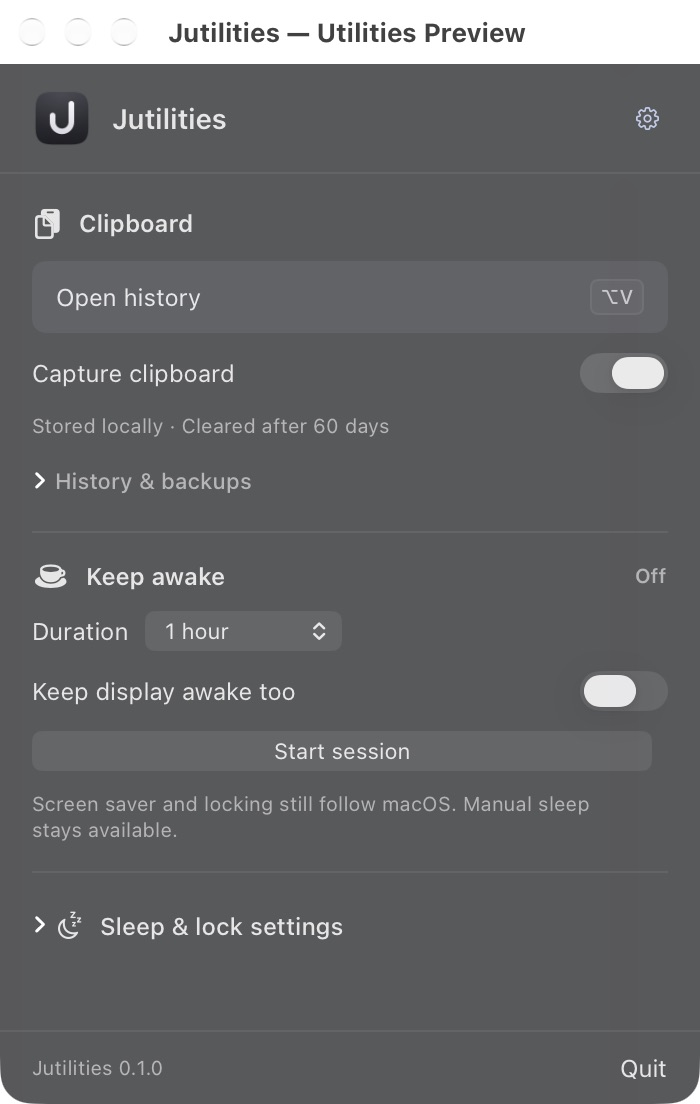
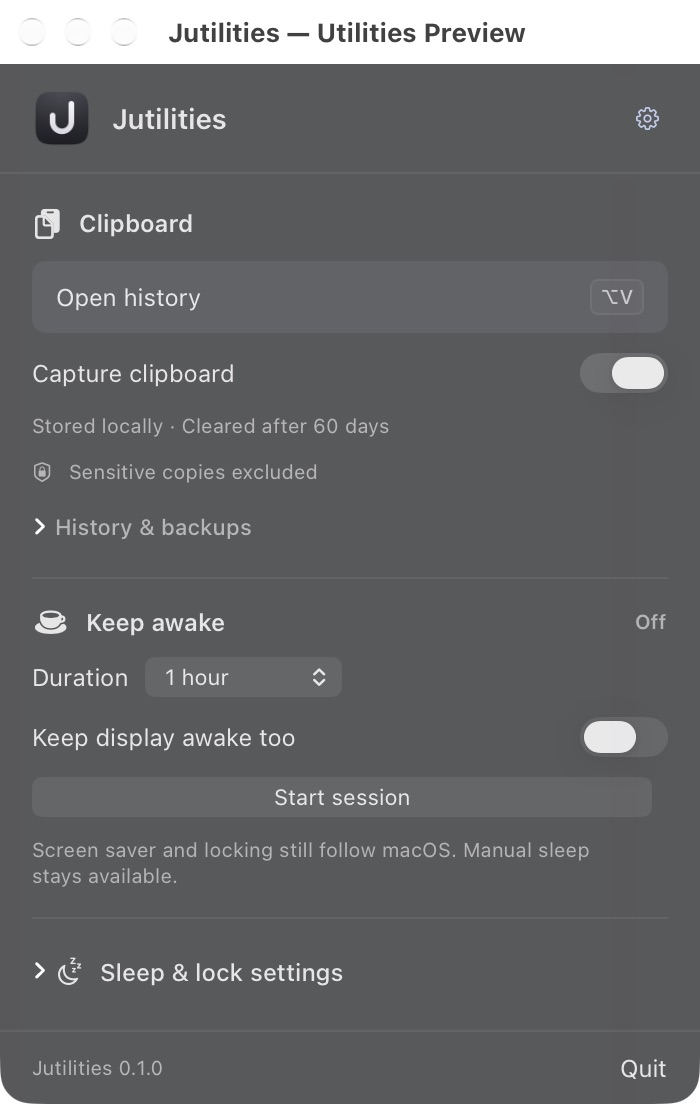
Strengthen password exclusions before clipboard capture

diff --git a/Tests/JutilitiesAppTests/PasteboardMonitorTests.swift b/Tests/JutilitiesAppTests/PasteboardMonitorTests.swift
@@ -7,7 +7,9 @@ final class PasteboardMonitorTests: XCTestCase {
     func testCapturesNewTextFromIsolatedPasteboardOnce() async throws {
         let board = NSPasteboard(name: NSPasteboard.Name("JutilitiesTests-\(UUID().uuidString)"))
         defer { board.releaseGlobally() }
-        let monitor = PasteboardMonitor(pasteboard: board, frontmostApplication: { nil })
+        let monitor = PasteboardMonitor(pasteboard: board, frontmostApplication: {
+            ClipboardSourceApplication(name: "Fixture editor", bundleIdentifier: "com.example.fixture-editor")
+        })
         var captures: [ClipboardCapture] = []
         monitor.onCapture = { captures.append($0) }
 
@@ -23,10 +25,233 @@ final class PasteboardMonitorTests: XCTestCase {
         XCTAssertEqual(captures.count, 1)
         XCTAssertEqual(capture.kind, .text)
         XCTAssertEqual(capture.text, "Ordinary test content")
+        XCTAssertEqual(capture.sourceApp, "Fixture editor")
+        XCTAssertEqual(capture.sourceBundleID, "com.example.fixture-editor")
         XCTAssertEqual(capture.representations, [
             ClipboardRepresentation(type: NSPasteboard.PasteboardType.string.rawValue,
                                     data: Data("Ordinary test content".utf8))
         ])
+    }
+
+    @MainActor
+    func testExcludesEverySensitivePasteboardMarker() async throws {
+        let board = NSPasteboard(name: NSPasteboard.Name("JutilitiesTests-\(UUID().uuidString)"))
+        defer { board.releaseGlobally() }
+        let monitor = PasteboardMonitor(pasteboard: board, frontmostApplication: { nil })
+        var captures: [ClipboardCapture] = []
+        monitor.onCapture = { captures.append($0) }
+        let markers = [
+            "org.nspasteboard.ConcealedType", "org.nspasteboard.TransientType",
+            "org.nspasteboard.AutoGeneratedType", "com.agilebits.onepassword", "net.antelle.keeweb"
+        ]
+
+        for marker in markers {
+            let item = NSPasteboardItem()
+            XCTAssertTrue(item.setString("Synthetic sensitive fixture", forType: .string))
+            XCTAssertTrue(item.setData(Data(), forType: NSPasteboard.PasteboardType(marker)))
+            board.clearContents()
+            XCTAssertTrue(board.writeObjects([item]))
+
+            monitor.poll()
+            monitor.poll()
+
+            XCTAssertTrue(captures.isEmpty, "The \(marker) marker must exclude the entire copy.")
+        }
+    }
+
+    @MainActor
+    func testResumeDoesNotCaptureAnUnpolledCopyMadeWhilePaused() async throws {
+        let board = NSPasteboard(name: NSPasteboard.Name("JutilitiesTests-\(UUID().uuidString)"))
+        defer { board.releaseGlobally() }
+        let monitor = PasteboardMonitor(pasteboard: board, frontmostApplication: { nil })
+        var captures: [ClipboardCapture] = []
+        monitor.onCapture = { captures.append($0) }
+
+        monitor.isPaused = true
+        board.clearContents()
+        XCTAssertTrue(board.setString("Synthetic unmarked secret fixture", forType: .string))
+        // Resume before the timer polls: paused copies must not be replayed later.
+        monitor.isPaused = false
+        monitor.poll()
+        XCTAssertTrue(captures.isEmpty)
+
+        board.clearContents()
+        XCTAssertTrue(board.setString("Ordinary copy after resuming", forType: .string))
+        monitor.poll()
+
+        XCTAssertEqual(captures.count, 1)
+        XCTAssertEqual(captures.first?.text, "Ordinary copy after resuming")
+    }
+
+    @MainActor
+    func testExcludesConcealedMarkerOnLaterPasteboardItem() async throws {
+        let board = NSPasteboard(name: NSPasteboard.Name("JutilitiesTests-\(UUID().uuidString)"))
+        defer { board.releaseGlobally() }
+        let monitor = PasteboardMonitor(pasteboard: board, frontmostApplication: { nil })
+        var captures: [ClipboardCapture] = []
+        monitor.onCapture = { captures.append($0) }
+        let first = NSPasteboardItem()
+        XCTAssertTrue(first.setString("Ordinary first item", forType: .string))
+        let concealed = NSPasteboardItem()
+        XCTAssertTrue(concealed.setString("Synthetic sensitive second item", forType: .string))
+        XCTAssertTrue(concealed.setData(Data(), forType: NSPasteboard.PasteboardType("org.nspasteboard.ConcealedType")))
+        board.clearContents()
+        XCTAssertTrue(board.writeObjects([first, concealed]))
+
+        monitor.poll()
+
+        XCTAssertTrue(captures.isEmpty, "A marker on any item must exclude the entire copy.")
+    }
+
+    @MainActor
+    func testExcludesPasswordApplicationsInForeground() async throws {
+        let board = NSPasteboard(name: NSPasteboard.Name("JutilitiesTests-\(UUID().uuidString)"))
+        defer { board.releaseGlobally() }
+        let applications = [
+            "com.1password.1password", "com.agilebits.onepassword7", "com.apple.Passwords",
+            "com.apple.keychainaccess", "com.bitwarden.desktop", "com.apple.SecurityAgent"
+        ]
+        var applicationID = applications[0]
+        let monitor = PasteboardMonitor(pasteboard: board, frontmostApplication: {
+            ClipboardSourceApplication(name: "Synthetic password app", bundleIdentifier: applicationID)
+        })
+        var captures: [ClipboardCapture] = []
+        monitor.onCapture = { captures.append($0) }
+
+        for identifier in applications {
+            applicationID = identifier
+            board.clearContents()
+            XCTAssertTrue(board.setString("Synthetic password fixture", forType: .string))
+
+            monitor.poll()
+
+            XCTAssertTrue(captures.isEmpty, "Copies from \(identifier) must not enter history.")
+        }
+    }
+
+    @MainActor
+    func testExcludesPasswordApplicationSourceWhileOrdinaryAppIsFrontmost() async throws {
+        let board = NSPasteboard(name: NSPasteboard.Name("JutilitiesTests-\(UUID().uuidString)"))
+        defer { board.releaseGlobally() }
+        let monitor = PasteboardMonitor(pasteboard: board, frontmostApplication: {
+            ClipboardSourceApplication(name: "Fixture editor", bundleIdentifier: "com.example.fixture-editor")
+        })
+        var captures: [ClipboardCapture] = []
+        monitor.onCapture = { captures.append($0) }
+        let item = NSPasteboardItem()
+        XCTAssertTrue(item.setString("Synthetic sensitive fixture", forType: .string))
+        XCTAssertTrue(item.setString("com.1password.1password", forType: NSPasteboard.PasteboardType("org.nspasteboard.source")))
+        board.clearContents()
+        XCTAssertTrue(board.writeObjects([item]))
+
+        monitor.poll()
+
+        XCTAssertTrue(captures.isEmpty, "Source metadata must exclude a password-manager copy after focus changes.")
+    }
+
+    @MainActor
+    func testExcludesPasswordApplicationSourceOnLaterPasteboardItem() async throws {
+        let board = NSPasteboard(name: NSPasteboard.Name("JutilitiesTests-\(UUID().uuidString)"))
+        defer { board.releaseGlobally() }
+        let monitor = PasteboardMonitor(pasteboard: board, frontmostApplication: {
+            ClipboardSourceApplication(name: "Fixture editor", bundleIdentifier: "com.example.fixture-editor")
+        })
+        var captures: [ClipboardCapture] = []
+        monitor.onCapture = { captures.append($0) }
+        let first = NSPasteboardItem()
+        XCTAssertTrue(first.setString("Ordinary first item", forType: .string))
+        let source = NSPasteboardItem()
+        XCTAssertTrue(source.setString("com.bitwarden.desktop", forType: NSPasteboard.PasteboardType("org.nspasteboard.source")))
+        board.clearContents()
+        XCTAssertTrue(board.writeObjects([first, source]))
+
+        monitor.poll()
+
+        XCTAssertTrue(captures.isEmpty, "Source metadata on a later item must exclude the entire copy.")
+    }
+
+    @MainActor
+    func testCapturesOrdinarySourceMetadataAndImage() async throws {
+        let board = NSPasteboard(name: NSPasteboard.Name("JutilitiesTests-\(UUID().uuidString)"))
+        defer { board.releaseGlobally() }
+        let monitor = PasteboardMonitor(pasteboard: board, frontmostApplication: {
+            ClipboardSourceApplication(name: "Fixture image app", bundleIdentifier: "com.example.fixture-image")
+        })
+        var captures: [ClipboardCapture] = []
+        monitor.onCapture = { captures.append($0) }
+        let bitmap = try XCTUnwrap(NSBitmapImageRep(bitmapDataPlanes: nil, pixelsWide: 2, pixelsHigh: 2,
+                                                  bitsPerSample: 8, samplesPerPixel: 4, hasAlpha: true,
+                                                  isPlanar: false, colorSpaceName: .deviceRGB,
+                                                  bytesPerRow: 0, bitsPerPixel: 0))
+        for x in 0..<2 {
+            for y in 0..<2 {
+                // Opaque black/white remains stable when macOS synthesizes TIFF
+                // using a different color profile than the original PNG.
+                let level = CGFloat((x + y) % 2)
+                bitmap.setColor(NSColor(deviceRed: level, green: level, blue: level, alpha: 1), atX: x, y: y)
+            }
+        }
+        let image = try XCTUnwrap(bitmap.representation(using: .png, properties: [:]))
+        let item = NSPasteboardItem()
+        XCTAssertTrue(item.setData(image, forType: .png))
+        XCTAssertTrue(item.setString("com.example.fixture-image", forType: NSPasteboard.PasteboardType("org.nspasteboard.source")))
+        board.clearContents()
+        XCTAssertTrue(board.writeObjects([item]))
+
+        monitor.poll()
+        monitor.poll()
+
+        let capture = try XCTUnwrap(captures.first)
+        XCTAssertEqual(captures.count, 1)
+        XCTAssertEqual(capture.kind, .image)
+        XCTAssertEqual(capture.imageWidth, 2)
+        XCTAssertEqual(capture.imageHeight, 2)
+        XCTAssertNotNil(capture.thumbnail)
+        XCTAssertEqual(capture.representations.first { $0.type == NSPasteboard.PasteboardType.png.rawValue }?.data,
+                       image)
+        for representation in capture.representations {
+            XCTAssertTrue([NSPasteboard.PasteboardType.png.rawValue, NSPasteboard.PasteboardType.tiff.rawValue]
+                .contains(representation.type), "An ordinary image copy must contain only image formats.")
+            if representation.type == NSPasteboard.PasteboardType.tiff.rawValue {
+                let nativeImage = try XCTUnwrap(NSBitmapImageRep(data: representation.data))
+                XCTAssertEqual(nativeImage.pixelsWide, 2)
+                XCTAssertEqual(nativeImage.pixelsHigh, 2)
+                for x in 0..<2 {
+                    for y in 0..<2 {
+                        let expected = try XCTUnwrap(bitmap.colorAt(x: x, y: y)?.usingColorSpace(.deviceRGB))
+                        let actual = try XCTUnwrap(nativeImage.colorAt(x: x, y: y)?.usingColorSpace(.deviceRGB))
+                        XCTAssertEqual(actual.redComponent, expected.redComponent, accuracy: 1 / 255)
+                        XCTAssertEqual(actual.greenComponent, expected.greenComponent, accuracy: 1 / 255)
+                        XCTAssertEqual(actual.blueComponent, expected.blueComponent, accuracy: 1 / 255)
+                        XCTAssertEqual(actual.alphaComponent, expected.alphaComponent, accuracy: 1 / 255)
+                    }
+                }
+            }
+        }
+    }
+
+    @MainActor
+    func testDiscardsCaptureWhenPromisedDataAddsConcealedMarkerWithoutOwnershipChange() async throws {
+        let board = NSPasteboard(name: NSPasteboard.Name("JutilitiesTests-\(UUID().uuidString)"))
+        defer { board.releaseGlobally() }
+        let monitor = PasteboardMonitor(pasteboard: board, frontmostApplication: { nil })
+        var captures: [ClipboardCapture] = []
+        monitor.onCapture = { captures.append($0) }
+        let provider = LateConcealedMarkerProvider(board: board)
+        let item = NSPasteboardItem()
+        XCTAssertTrue(item.setString("Ordinary original fixture", forType: .string))
+        XCTAssertTrue(item.setDataProvider(provider, forTypes: [.rtf]))
+        board.clearContents()
+        XCTAssertTrue(board.writeObjects([item]))
+        let generation = board.changeCount
+
+        monitor.poll()
+
+        XCTAssertTrue(provider.wasInvoked, "The marker must arrive during a promised-data read.")
+        XCTAssertTrue(provider.markerAddedSuccessfully)
+        XCTAssertEqual(board.changeCount, generation, "This regression must retain pasteboard ownership.")
+        XCTAssertTrue((board.types ?? []).contains(NSPasteboard.PasteboardType("org.nspasteboard.ConcealedType")))
+        XCTAssertTrue(captures.isEmpty, "The late privacy marker must discard the original ordinary representation too.")
     }
 
     @MainActor
@@ -51,6 +276,26 @@ final class PasteboardMonitorTests: XCTestCase {
 
         monitor.poll()
         XCTAssertTrue(captures.isEmpty, "The replacement concealed content must also remain excluded.")
+    }
+}
+
+private final class LateConcealedMarkerProvider: NSObject, NSPasteboardItemDataProvider {
+    private let board: NSPasteboard
+    private(set) var wasInvoked = false
+    private(set) var markerAddedSuccessfully = false
+
+    init(board: NSPasteboard) {
+        self.board = board
+    }
+
+    func pasteboard(_ pasteboard: NSPasteboard?, item: NSPasteboardItem,
+                    provideDataForType type: NSPasteboard.PasteboardType) {
+        wasInvoked = true
+        item.setData(Data("{\\rtf1 Ordinary original fixture}".utf8), forType: type)
+        let concealed = NSPasteboard.PasteboardType("org.nspasteboard.ConcealedType")
+        // Add a representation without clearContents/declareTypes or a new owner.
+        board.addTypes([concealed], owner: nil)
+        markerAddedSuccessfully = board.setData(Data(), forType: concealed)
     }
 }
 

diff --git a/Sources/Jutilities/PasteboardMonitor.swift b/Sources/Jutilities/PasteboardMonitor.swift
@@ -3,13 +3,26 @@ import ImageIO
 import UniformTypeIdentifiers
 import JutilitiesCore
 
+struct ClipboardSourceApplication {
+    let name: String
+    let bundleIdentifier: String?
+}
+
 @MainActor
 final class PasteboardMonitor {
     var onCapture: ((ClipboardCapture) -> Void)?
     var onError: ((String) -> Void)?
-    var isPaused = false
+    var isPaused = false {
+        didSet {
+            if oldValue != isPaused {
+                // Resume starts with the next copy, never a password copied
+                // while capture was paused, even between timer ticks.
+                observedChangeCount = pasteboard.changeCount
+            }
+        }
+    }
     private let pasteboard: NSPasteboard
-    private let frontmostApplication: () -> NSRunningApplication?
+    private let frontmostApplication: () -> ClipboardSourceApplication?
     private var timer: Timer?
     private var observedChangeCount: Int
     private let maximumBytes = 60 * 1024 * 1024
@@ -21,9 +34,14 @@ final class PasteboardMonitor {
         "org.nspasteboard.ConcealedType", "org.nspasteboard.TransientType",
         "org.nspasteboard.AutoGeneratedType", "com.agilebits.onepassword", "net.antelle.keeweb"
     ]
+    private static let sourceType = NSPasteboard.PasteboardType("org.nspasteboard.source")
 
     init(pasteboard: NSPasteboard = .general,
-         frontmostApplication: @escaping () -> NSRunningApplication? = { NSWorkspace.shared.frontmostApplication }) {
+         frontmostApplication: @escaping () -> ClipboardSourceApplication? = {
+             NSWorkspace.shared.frontmostApplication.map {
+                 ClipboardSourceApplication(name: $0.localizedName ?? "Unknown app", bundleIdentifier: $0.bundleIdentifier)
+             }
+         }) {
         self.pasteboard = pasteboard
         self.frontmostApplication = frontmostApplication
         observedChangeCount = pasteboard.changeCount
@@ -46,10 +64,9 @@ final class PasteboardMonitor {
         let generation = board.changeCount
         observedChangeCount = generation
         guard !isPaused else { return }
-        let types = Set((board.types ?? []).map(\.rawValue))
-        guard types.isDisjoint(with: Self.ignoredTypes) else { return }
         let application = frontmostApplication()
-        guard !Self.excludedApps.contains(application?.bundleIdentifier ?? "") else { return }
+        guard !shouldExclude(generation: generation, application: application) else { return }
+        let types = Set((board.types ?? []).map(\.rawValue))
         // File promises/bookmarks can grant access outside the copied content. Keep the
         // required text/image formats, which can be restored without opening any file.
         let supported: [NSPasteboard.PasteboardType] = [.string, .png, .tiff, .rtf, .html, .URL]
@@ -100,11 +117,31 @@ final class PasteboardMonitor {
         } else {
             title = String((text ?? "Formatted text").split(whereSeparator: \.isNewline).first.map(String.init)?.prefix(160) ?? "Copied text".prefix(160))
         }
-        guard board.changeCount == generation else { return }
+        // A provider can add a sensitive marker without changing clipboard
+        // ownership. Check again before any content reaches persistent history.
+        guard !shouldExclude(generation: generation, application: application) else { return }
         onCapture?(ClipboardCapture(kind: kind, title: title, text: text,
-                                   sourceApp: application?.localizedName ?? "Unknown app",
+                                   sourceApp: application?.name ?? "Unknown app",
                                    sourceBundleID: application?.bundleIdentifier,
                                    representations: representations, thumbnail: thumbnail,
                                    imageWidth: width, imageHeight: height))
+    }
+
+    private func shouldExclude(generation: Int, application: ClipboardSourceApplication?) -> Bool {
+        guard pasteboard.changeCount == generation else { return true }
+        guard Set((pasteboard.types ?? []).map(\.rawValue)).isDisjoint(with: Self.ignoredTypes),
+              !Self.excludedApps.contains(application?.bundleIdentifier ?? "") else { return true }
+
+        // A background password manager can identify itself even while another
+        // app is frontmost. Treat source hints only as an additional exclusion;
+        // they never override a sensitive marker or a blocked foreground app.
+        for item in pasteboard.pasteboardItems ?? [] where item.types.contains(Self.sourceType) {
+            if let source = item.string(forType: Self.sourceType), Self.excludedApps.contains(source) {
+                return true
+            }
+        }
+        // Source hints may themselves come from a lazy provider.
+        return pasteboard.changeCount != generation
+            || !Set((pasteboard.types ?? []).map(\.rawValue)).isDisjoint(with: Self.ignoredTypes)
     }
 }

diff --git a/Sources/Jutilities/UtilityMenuView.swift b/Sources/Jutilities/UtilityMenuView.swift
@@ -108,6 +108,10 @@ struct UtilityMenuView: View {
             Text("Stored locally · Cleared after 60 days")
                 .font(.system(size: 10))
                 .foregroundStyle(JutilitiesTheme.muted)
+            Label("Sensitive copies excluded", systemImage: "lock.shield")
+                .font(.system(size: 10))
+                .foregroundStyle(JutilitiesTheme.muted)
+                .help("Copies from supported password managers and clips marked private are skipped. Pause capture for passwords copied without a private marker, including some browser extensions.")
             DisclosureGroup(isExpanded: $showsHistoryTools) {
                 VStack(alignment: .leading, spacing: 10) {
                     HStack(spacing: 8) {

diff --git a/README.md b/README.md
@@ -75,7 +75,7 @@ History is local, unencrypted SQLite under `~/Library/Application Support/Jutili
 - Maintenance runs at startup and hourly, and expiry is also enforced while accessing or modifying history. Deletion removes the entry, its stored formats and search data. SQLite secure deletion and checkpointing reduce leftover database content; they are not a guarantee against filesystem snapshots or external backups.
 - An automatic recovery database is kept under `Backups` in the app's data directory. Exported backups are kept wherever you save them until you delete them. Restoring a backup validates it and removes expired entries.
 - Capture supports text, links, rich text and images, with a 60 MiB limit per capture across stored formats. Files and file promises are not captured.
-- Password-manager applications and concealed, transient or automatically generated clipboard types are excluded. These exclusions are best effort: a secret copied by another app without a sensitive marker can still enter history. Pause capture from the menu when needed.
+- Copies while Passwords, Keychain Access, 1Password, Bitwarden or macOS authorization dialogs are active are excluded. Jutilities also respects [sensitive clipboard markers](https://nspasteboard.org/) and password-manager source hints, including background copies. It rechecks these before saving, so a private marker added while clipboard data loads still prevents recording. These exclusions are best effort: unmarked passwords copied through a browser extension or an ordinary app cannot reliably be distinguished from ordinary text. Pause **Capture clipboard** for those copies; resuming waits for the next copy and does not record what you copied while paused. No Keychain password access is needed for this protection.
 
 The app does not collect the clipboard content that was present before capture started. Preview mode never monitors or writes the system clipboard.
 
